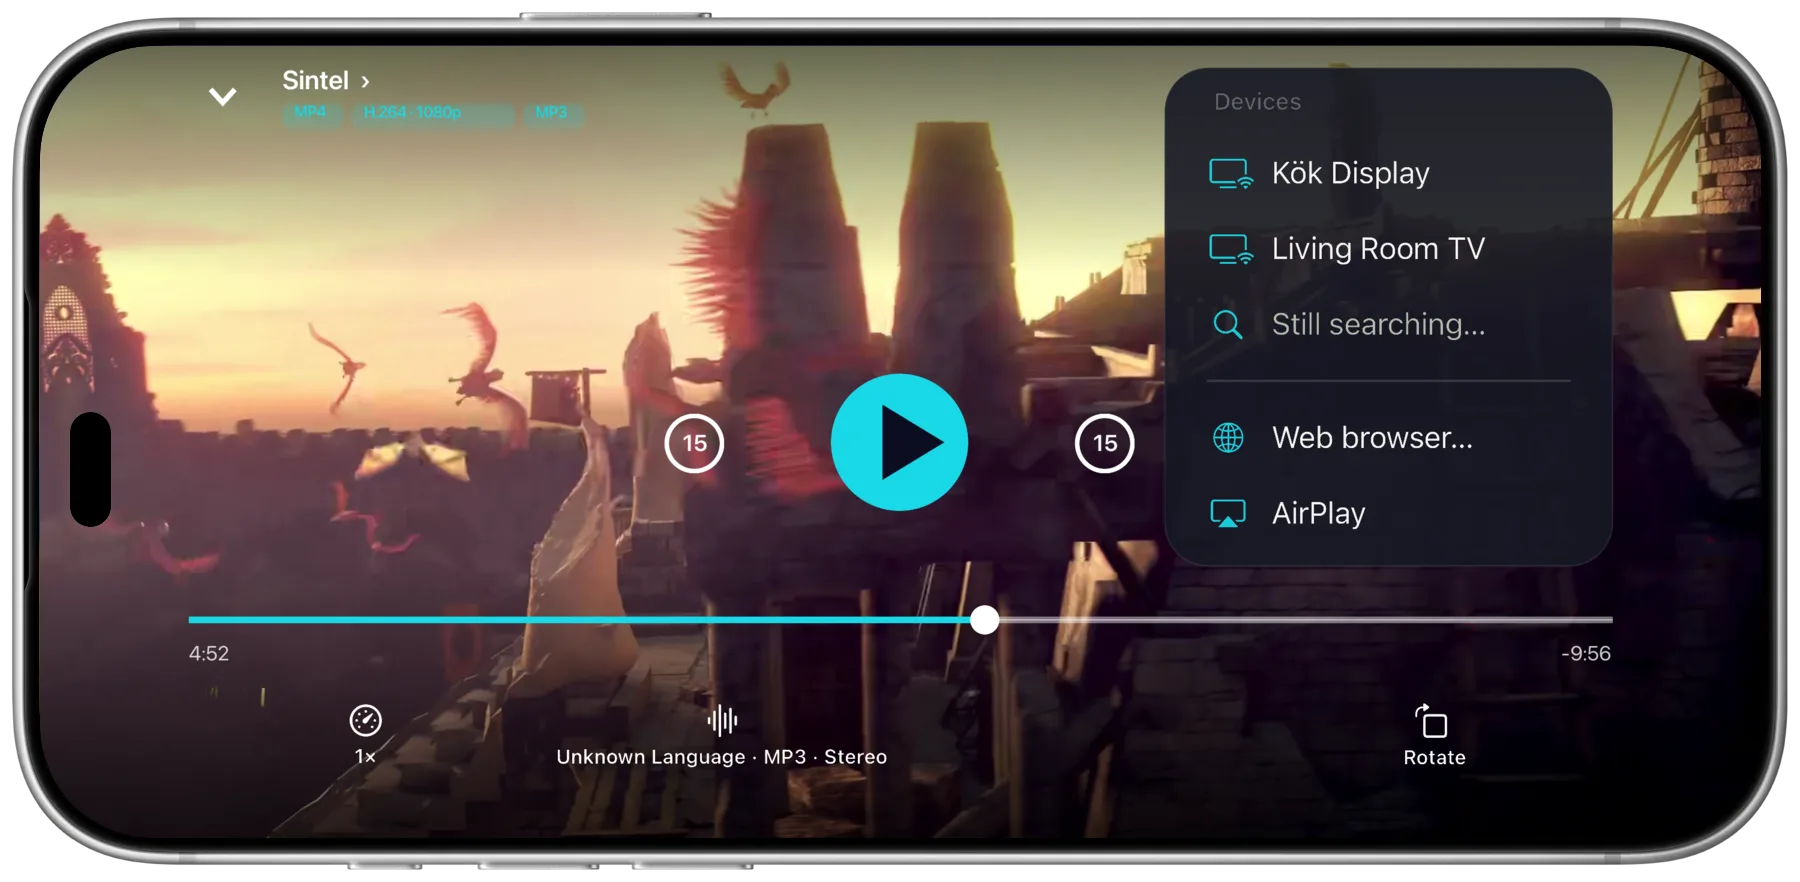
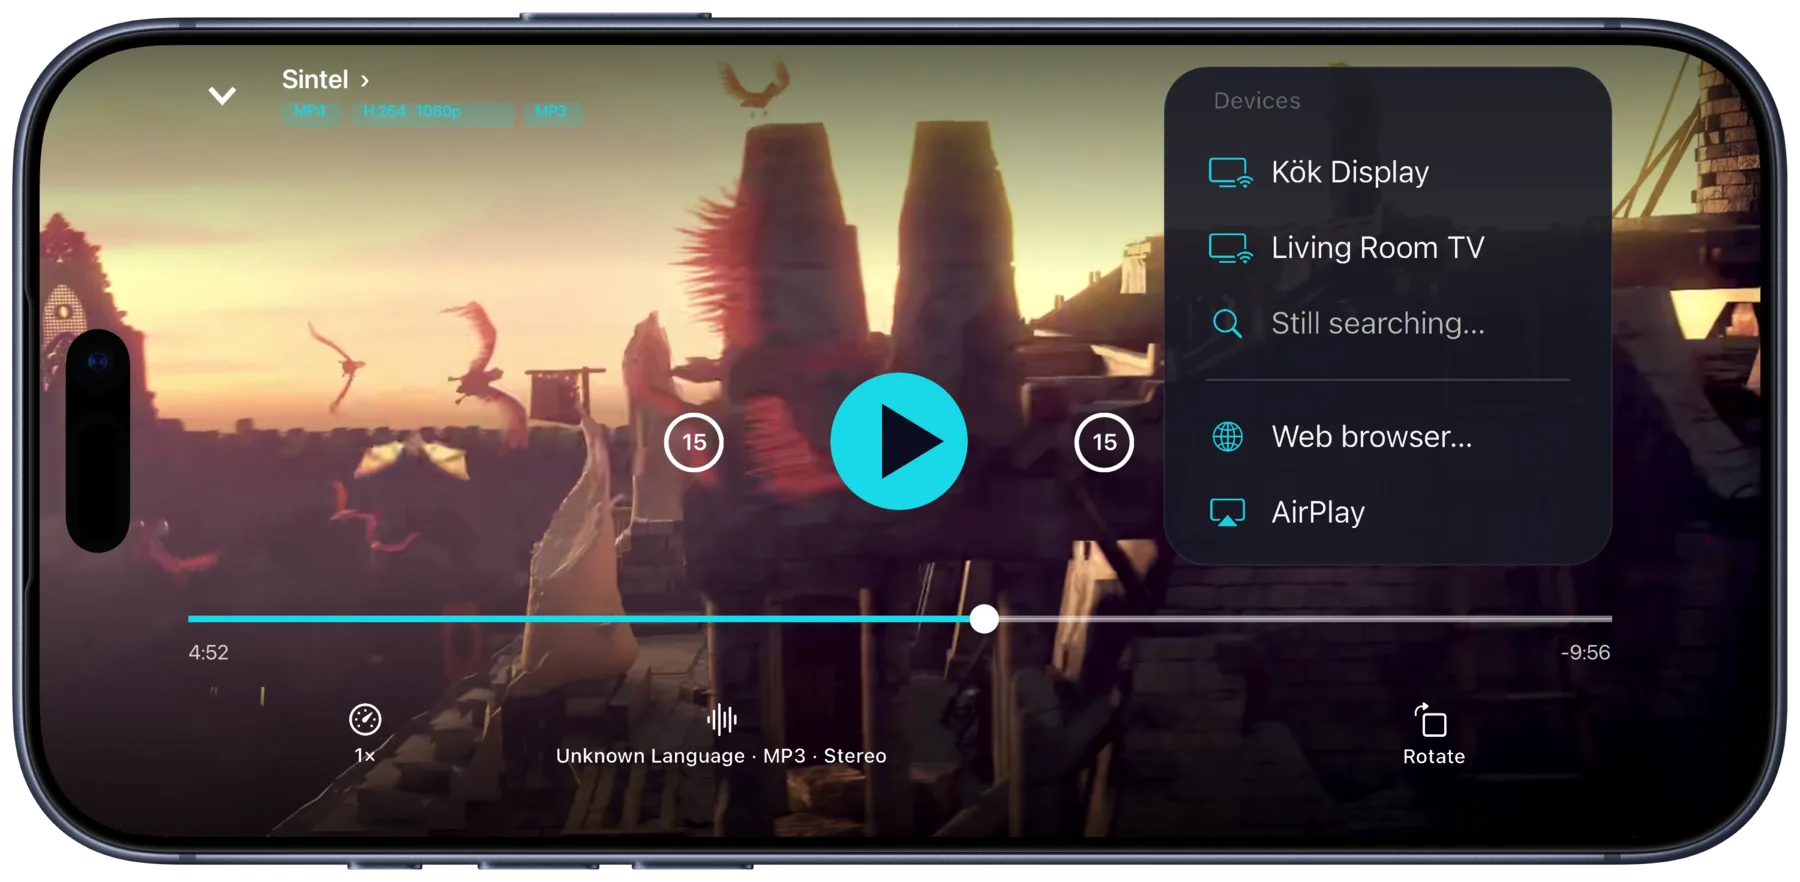
The iPhone in Deep Blue
The Tears of Steel and Sintel iPhone players are re-composited in
Apple's iPhone 17 Pro Max frame in Deep Blue, clipped to the frame's
outline so the screen's corners stay inside the rim. The screen hole is
unchanged, so the live overlay still lines up; the island moves to the
new frame's island. These two images also appear on the guides, Press
and the server pages. The stylesheet moves to v21.

diff --git a/site.css b/site.css
@@ -544,7 +544,7 @@ a.card:hover { text-decoration: none; border-color: color-mix(in srgb, var(--tin
 .sc-menu hr { border: 0; height: 1px; background: rgba(255,255,255,.14); margin: .5cqw 0; }
 .scene.s-pick .sc-scr-phone .sc-lr, .scene.s-pick .sc-scr-ipad .sc-lr { background: rgba(25,216,230,.22); }
 .scene.s-pick .sc-scr-mac .sc-lr { background: #2f6bd6; }
-.sc-island { position: absolute; left: 1.743%; top: 46.21%; width: 2.324%; height: 14.39%; border-radius: 999px; background: #000; }
+.sc-island { position: absolute; left: 1.534%; top: 35.83%; width: 3.731%; height: 28.26%; border-radius: 999px; background: #000; }
 .sc-pill {
   position: absolute; left: 50%; top: 5.6cqw; transform: translateX(-50%); display: inline-flex; align-items: center; gap: .6cqw;
   font-size: 1.36cqw; font-weight: 500; color: var(--accent); white-space: nowrap;

diff --git a/cast-to-car/index.html b/cast-to-car/index.html
@@ -20,7 +20,7 @@
 <link rel="icon" href="/img/favicon-192.png" sizes="192x192" type="image/png">
 <link rel="icon" href="/img/favicon.png" sizes="32x32">
 <link rel="apple-touch-icon" href="/img/icon-180.png">
-<link rel="stylesheet" href="/site.css?v=20">
+<link rel="stylesheet" href="/site.css?v=21">
 <script src="/ribbon.js?v=2" defer></script>
 <script type="application/ld+json">
 {

diff --git a/emby/index.html b/emby/index.html
@@ -20,7 +20,7 @@
 <link rel="icon" href="/img/favicon-192.png" sizes="192x192" type="image/png">
 <link rel="icon" href="/img/favicon.png" sizes="32x32">
 <link rel="apple-touch-icon" href="/img/icon-180.png">
-<link rel="stylesheet" href="/site.css?v=20">
+<link rel="stylesheet" href="/site.css?v=21">
 <script src="/ribbon.js?v=2" defer></script>
 <script type="application/ld+json">
 {

diff --git a/index.html b/index.html
@@ -20,7 +20,7 @@
 <link rel="icon" href="/img/favicon-192.png" sizes="192x192" type="image/png">
 <link rel="icon" href="/img/favicon.png" sizes="32x32">
 <link rel="apple-touch-icon" href="/img/icon-180.png">
-<link rel="stylesheet" href="/site.css?v=20">
+<link rel="stylesheet" href="/site.css?v=21">
 <script src="/ribbon.js?v=2" defer></script>
 <script type="application/ld+json">
 {

diff --git a/jellyfin/index.html b/jellyfin/index.html
@@ -20,7 +20,7 @@
 <link rel="icon" href="/img/favicon-192.png" sizes="192x192" type="image/png">
 <link rel="icon" href="/img/favicon.png" sizes="32x32">
 <link rel="apple-touch-icon" href="/img/icon-180.png">
-<link rel="stylesheet" href="/site.css?v=20">
+<link rel="stylesheet" href="/site.css?v=21">
 <script src="/ribbon.js?v=2" defer></script>
 <script type="application/ld+json">
 {

diff --git a/plex/index.html b/plex/index.html
@@ -20,7 +20,7 @@
 <link rel="icon" href="/img/favicon-192.png" sizes="192x192" type="image/png">
 <link rel="icon" href="/img/favicon.png" sizes="32x32">
 <link rel="apple-touch-icon" href="/img/icon-180.png">
-<link rel="stylesheet" href="/site.css?v=20">
+<link rel="stylesheet" href="/site.css?v=21">
 <script src="/ribbon.js?v=2" defer></script>
 <script type="application/ld+json">
 {

diff --git a/xbox/index.html b/xbox/index.html
@@ -20,7 +20,7 @@
 <link rel="icon" href="/img/favicon-192.png" sizes="192x192" type="image/png">
 <link rel="icon" href="/img/favicon.png" sizes="32x32">
 <link rel="apple-touch-icon" href="/img/icon-180.png">
-<link rel="stylesheet" href="/site.css?v=20">
+<link rel="stylesheet" href="/site.css?v=21">
 <script src="/ribbon.js?v=2" defer></script>
 <script type="application/ld+json">
 {

diff --git a/src/layout.html b/src/layout.html
@@ -12,7 +12,7 @@
 <link rel="icon" href="/img/favicon-192.png" sizes="192x192" type="image/png">
 <link rel="icon" href="/img/favicon.png" sizes="32x32">
 <link rel="apple-touch-icon" href="/img/icon-180.png">
-<link rel="stylesheet" href="/site.css?v=20">
+<link rel="stylesheet" href="/site.css?v=21">
 <script src="/ribbon.js?v=2" defer></script>
 {{head}}</head>
 <body{{body}}>

diff --git a/guides/hotel-tv/index.html b/guides/hotel-tv/index.html
@@ -20,7 +20,7 @@
 <link rel="icon" href="/img/favicon-192.png" sizes="192x192" type="image/png">
 <link rel="icon" href="/img/favicon.png" sizes="32x32">
 <link rel="apple-touch-icon" href="/img/icon-180.png">
-<link rel="stylesheet" href="/site.css?v=20">
+<link rel="stylesheet" href="/site.css?v=21">
 <script src="/ribbon.js?v=2" defer></script>
 </head>
 <body>

diff --git a/guides/jellyfin-chromecast-iphone/index.html b/guides/jellyfin-chromecast-iphone/index.html
@@ -20,7 +20,7 @@
 <link rel="icon" href="/img/favicon-192.png" sizes="192x192" type="image/png">
 <link rel="icon" href="/img/favicon.png" sizes="32x32">
 <link rel="apple-touch-icon" href="/img/icon-180.png">
-<link rel="stylesheet" href="/site.css?v=20">
+<link rel="stylesheet" href="/site.css?v=21">
 <script src="/ribbon.js?v=2" defer></script>
 </head>
 <body>

diff --git a/guides/mkv-iphone-mac/index.html b/guides/mkv-iphone-mac/index.html
@@ -20,7 +20,7 @@
 <link rel="icon" href="/img/favicon-192.png" sizes="192x192" type="image/png">
 <link rel="icon" href="/img/favicon.png" sizes="32x32">
 <link rel="apple-touch-icon" href="/img/icon-180.png">
-<link rel="stylesheet" href="/site.css?v=20">
+<link rel="stylesheet" href="/site.css?v=21">
 <script src="/ribbon.js?v=2" defer></script>
 </head>
 <body>

diff --git a/guides/offline-flight/index.html b/guides/offline-flight/index.html
@@ -20,7 +20,7 @@
 <link rel="icon" href="/img/favicon-192.png" sizes="192x192" type="image/png">
 <link rel="icon" href="/img/favicon.png" sizes="32x32">
 <link rel="apple-touch-icon" href="/img/icon-180.png">
-<link rel="stylesheet" href="/site.css?v=20">
+<link rel="stylesheet" href="/site.css?v=21">
 <script src="/ribbon.js?v=2" defer></script>
 </head>
 <body>
